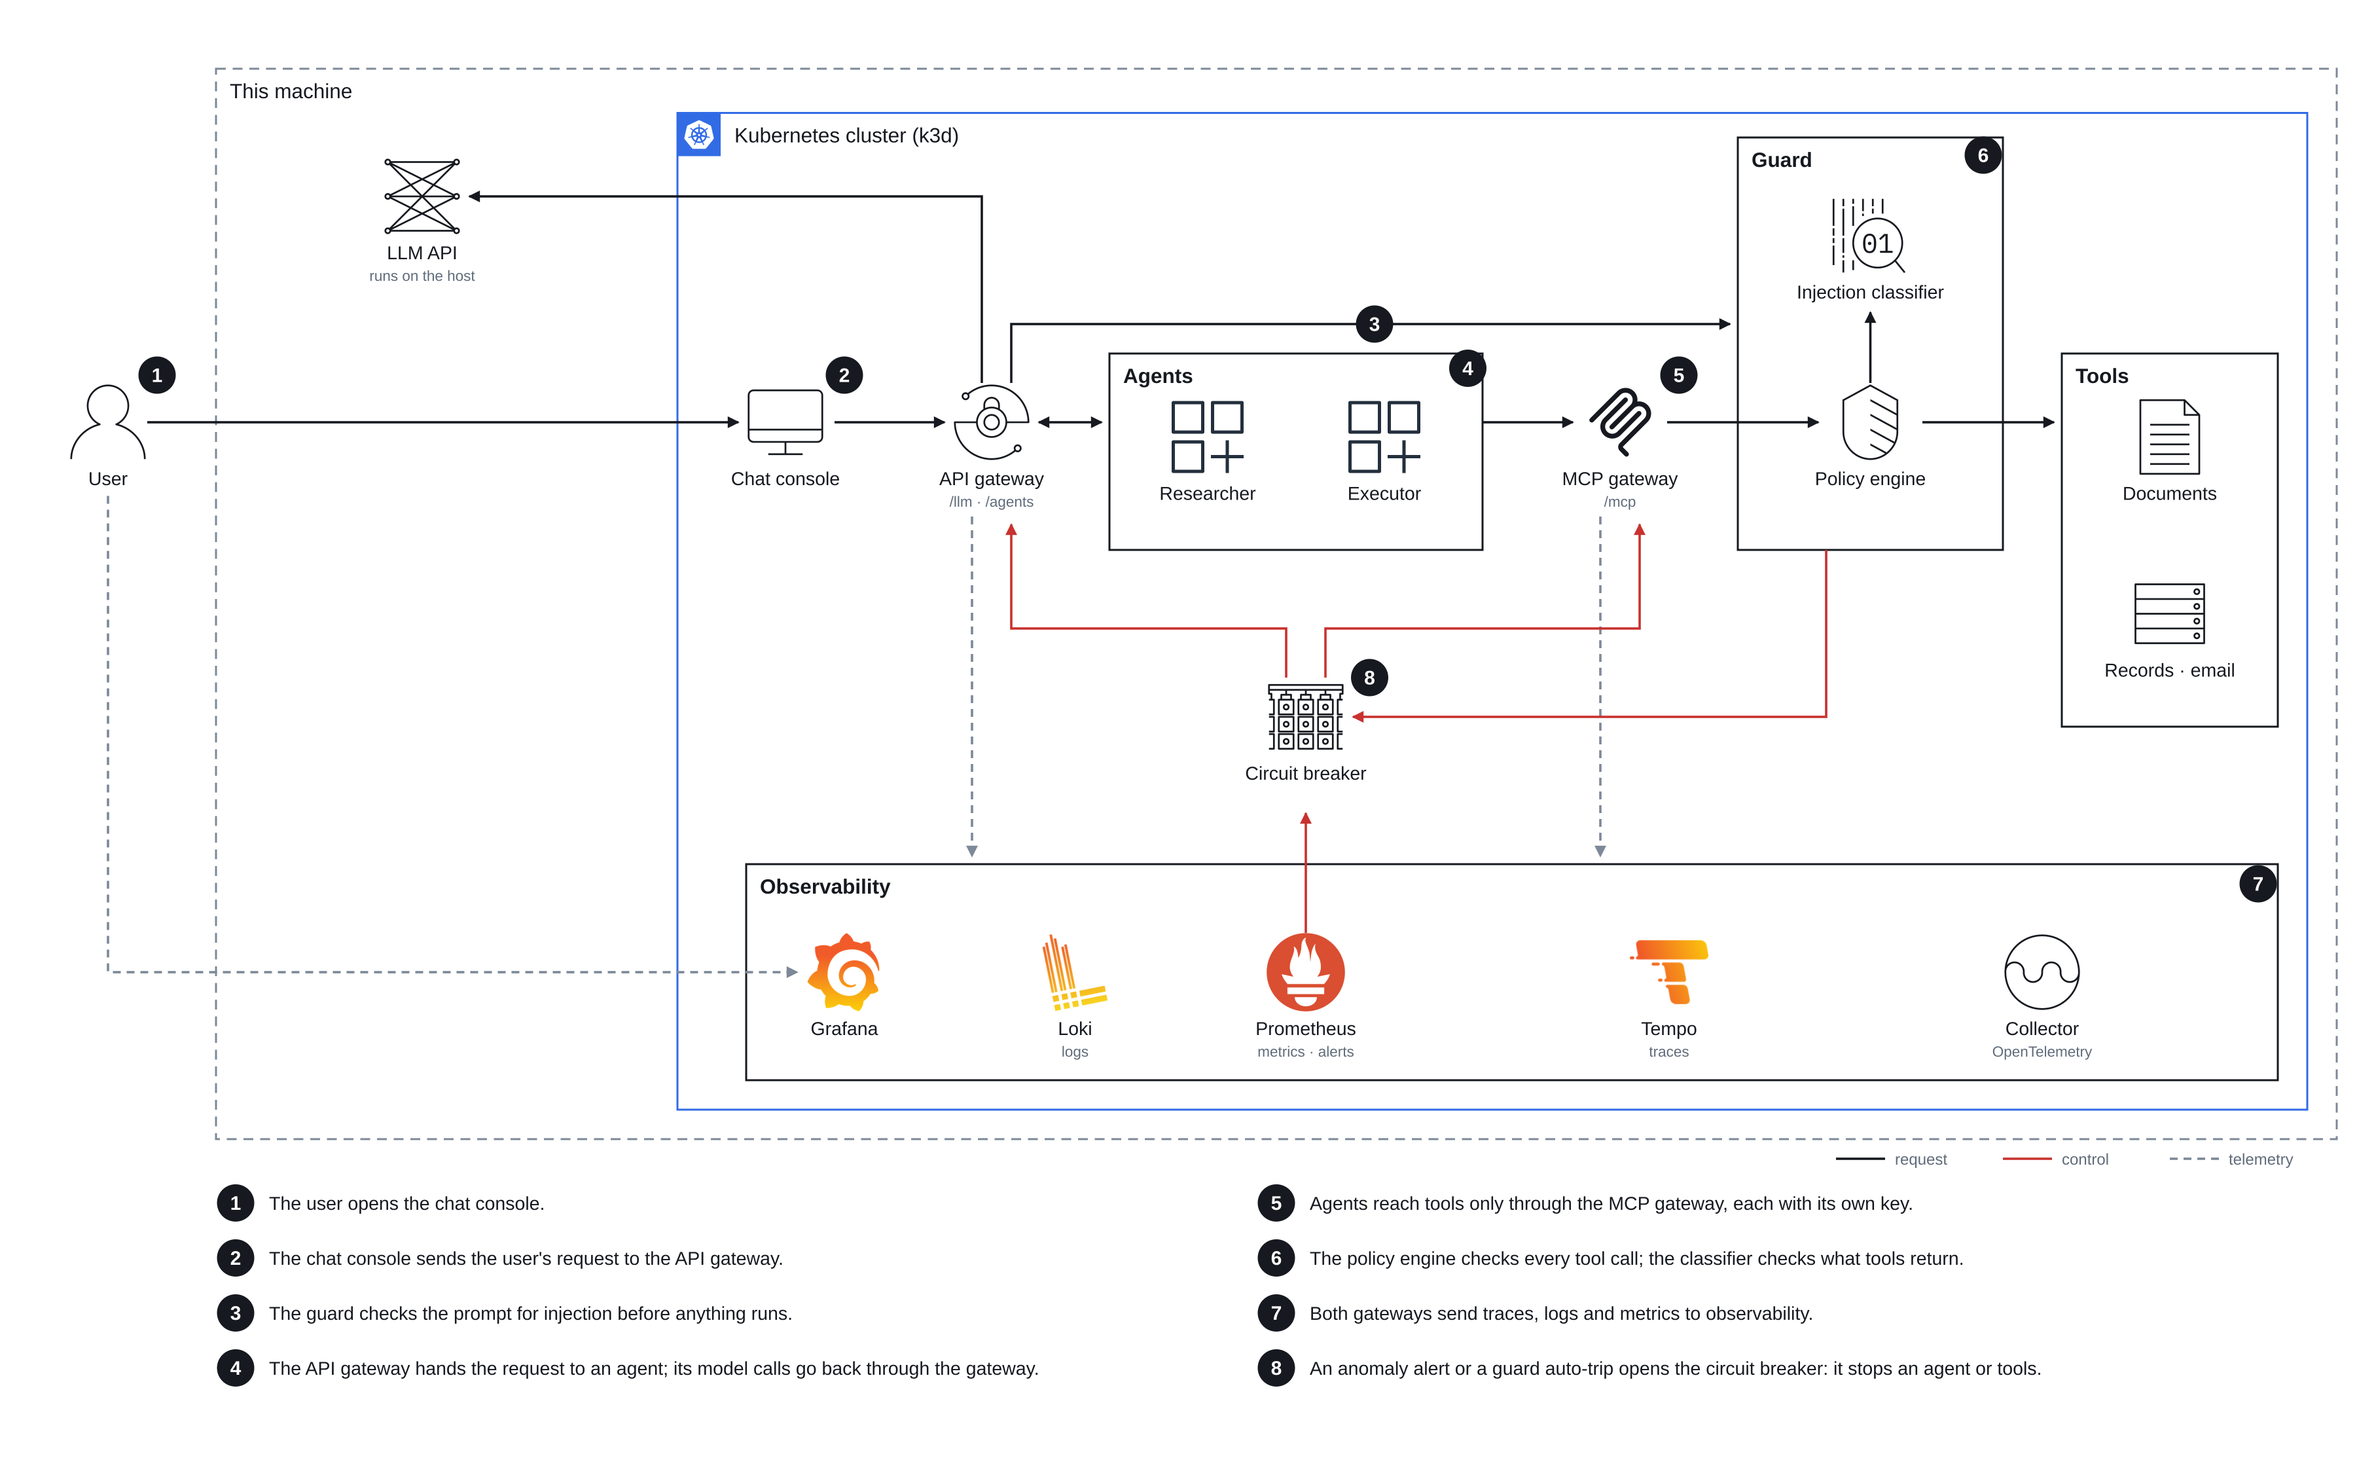
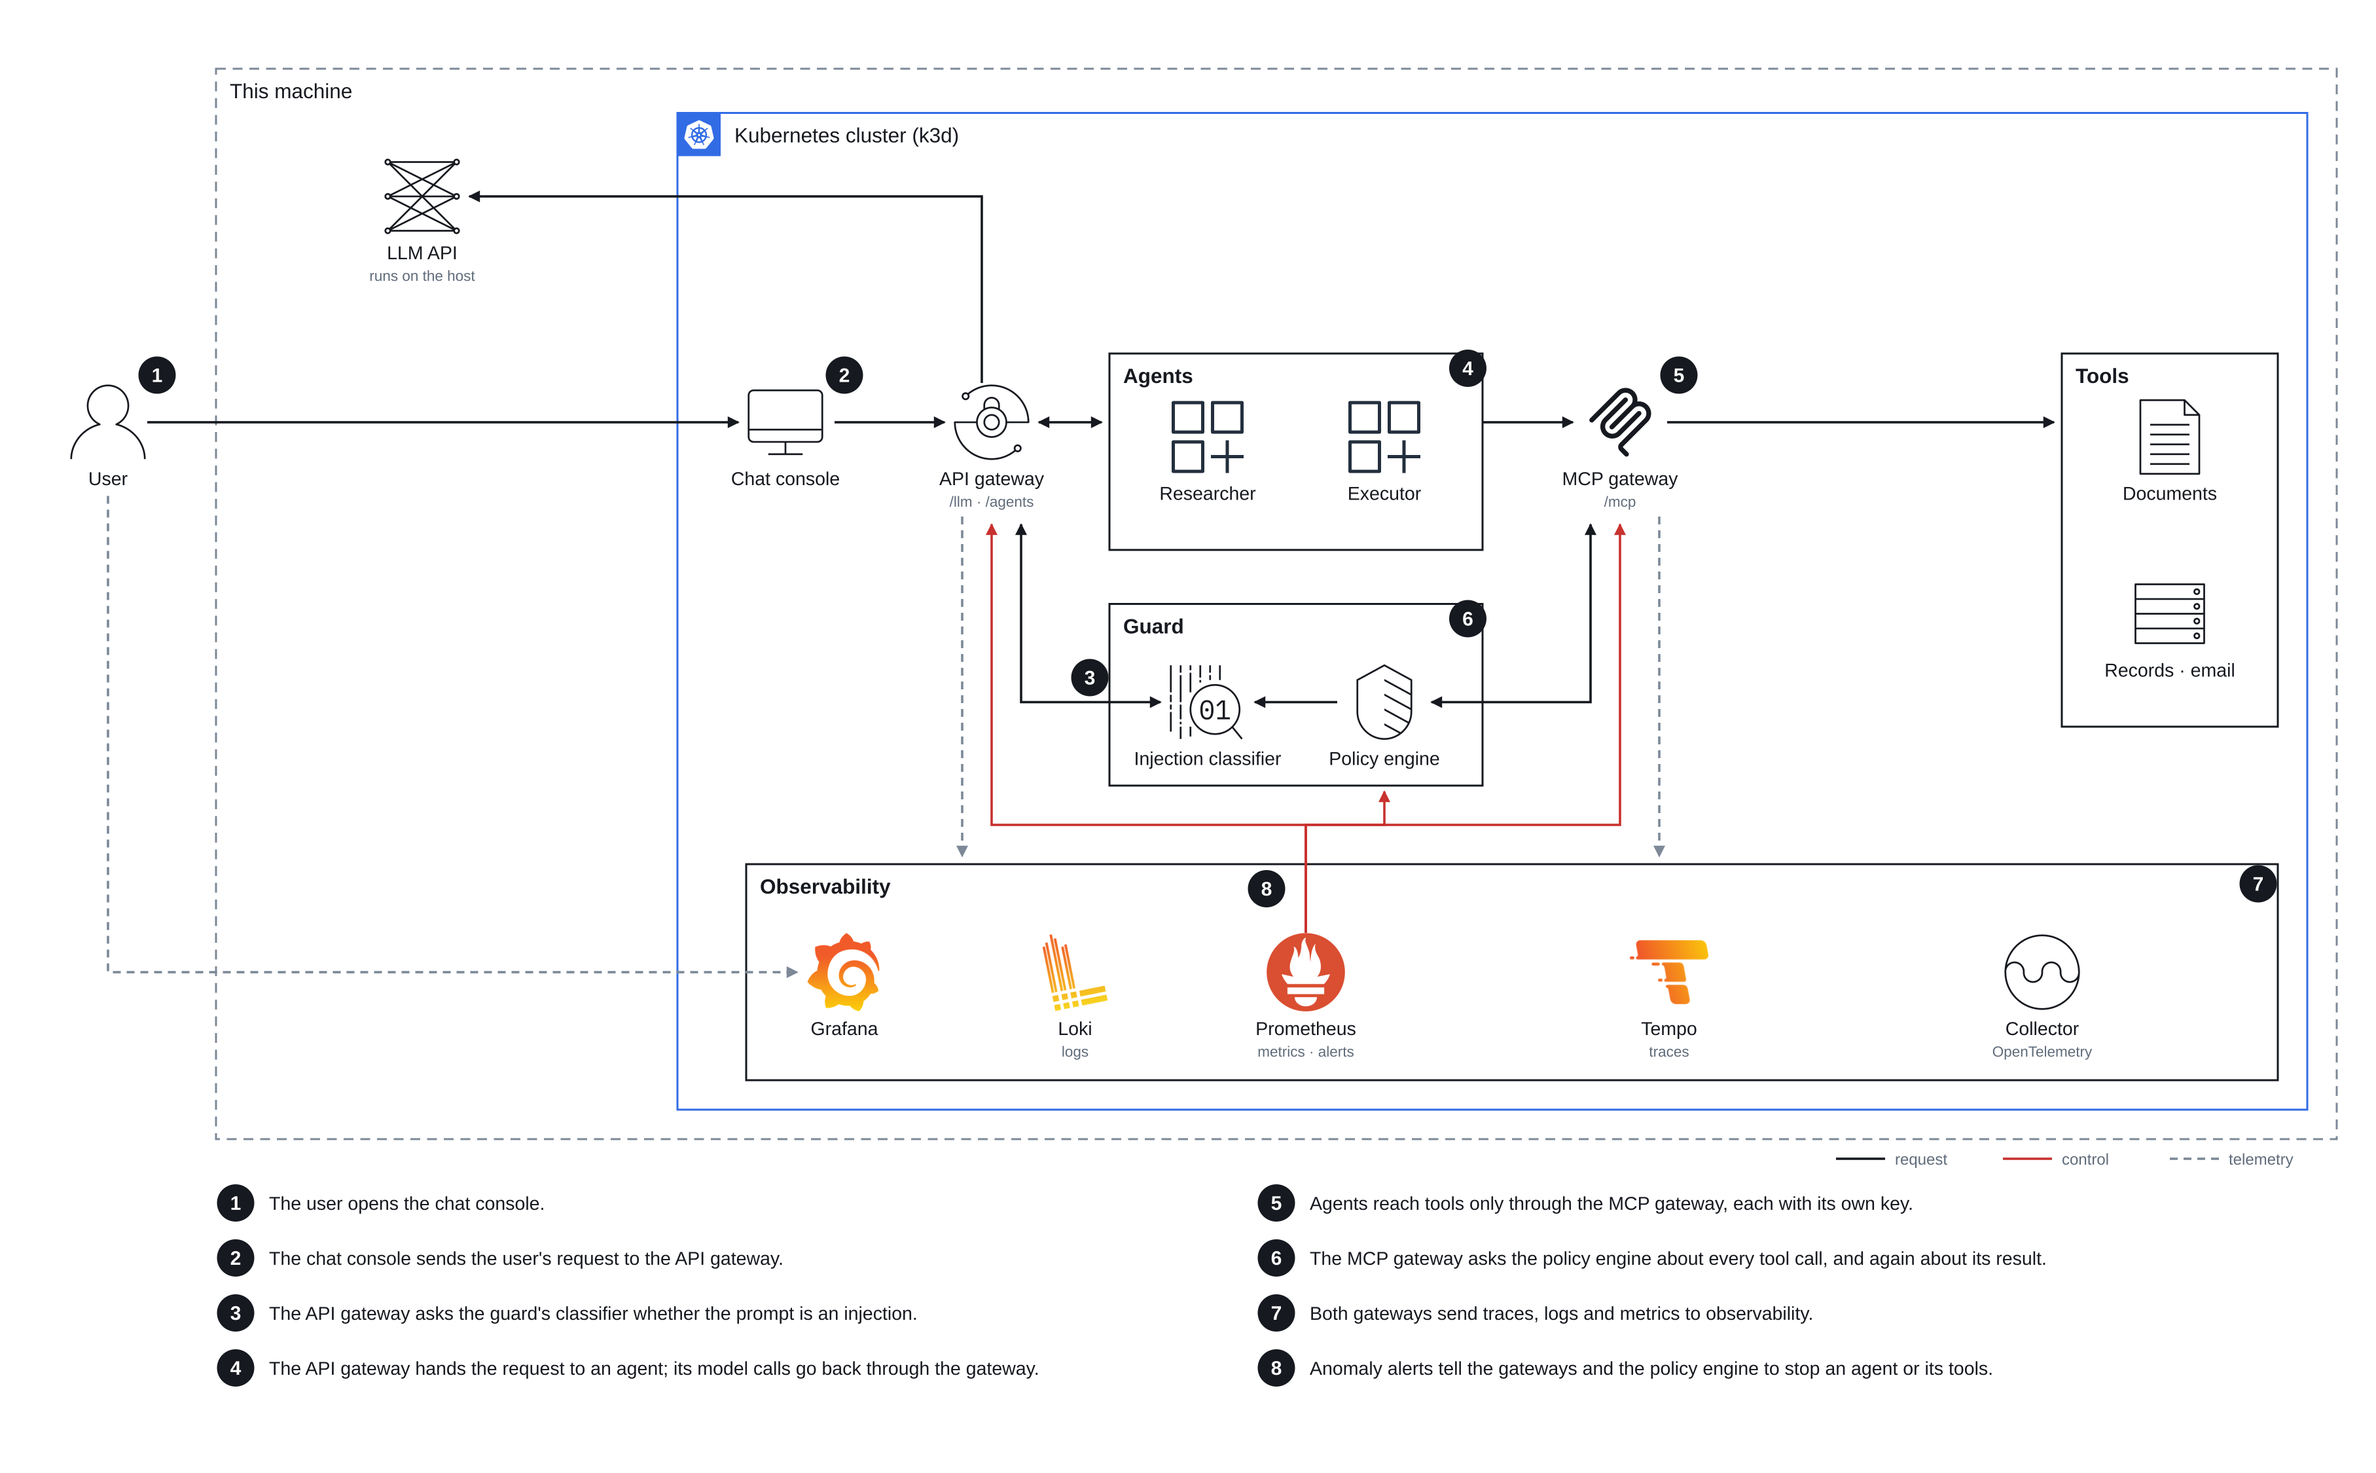
Diagram: no circuit breaker box, the guard as a call-out from both gateways (D-070)
Anomaly alerts go straight to the two gateways and the policy engine.
The gateways call out to the guard below the agents: the API gateway
asks the classifier about the prompt, the MCP gateway asks the policy
engine about each tool call and its result, then calls the tools
itself, as in the Interact Gateway integration. D-070 and the caption
note that APISIX's /mcp route still goes through the guard's proxy.

Claude-Session: https://claude.ai/code/session_01Jsn8uVNGPVQzviUb3isWPh

diff --git a/docs/diagram/architecture.py b/docs/diagram/architecture.py
@@ -7,8 +7,10 @@ component means choosing where it goes. The icons are in icons/ (see icons/READM
 products keep their own logos, everything else is an IBM Carbon pictogram, the MCP gateway the
 Model Context Protocol logo and the agents AWS's Generic Application icon.
 
-Black arrows are requests, red ones control (the circuit breaker), dashed ones telemetry and dotted
-ones deployment. The gateway is one deployment, drawn as the two gateways its routes form (D-068).
+Black arrows are requests, red ones control (anomaly alerts stopping an agent or its tools),
+dashed ones telemetry and dotted ones deployment. The gateways are drawn calling out to the guard
+(the policy engine and the classifier) and waiting for its answer, as the Interact Gateway
+integration does; in today's APISIX demo the guard sits inline on /mcp as an MCP proxy (D-070). The gateway is one deployment, drawn as the two gateways its routes form (D-068).
 
 TARGET=k3d (default) draws the laptop demo: k3d, the LLM on the host, no sign-in. TARGET=openshift
 draws the same demo on OpenShift (D-062): user authentication in front, the LLM in the cluster and
@@ -97,7 +99,7 @@ else:
     group(220, 70, 2380, 1160, "This machine", color=GREY, dash="10 7")
     group(690, 115, 2350, 1130, "Kubernetes cluster (k3d)", color="#326ce5", logo="kubernetes.svg")
 group(1130, 360, 1510, 560, "Agents", bold=True)
-group(1770, 140, 2040, 560, "Guard", bold=True)
+group(1130, 615, 1510, 800, "Guard", bold=True)
 group(2100, 360, 2320, 740, "Tools", bold=True)
 group(760, 880, 2320, 1100, "Observability", bold=True)
 
@@ -113,18 +115,19 @@ else:
     arrow((110, Y+75), (110, 990), (812, 990), kind="tel")      # user → Grafana
     arrow((1000, Y-40), (1000, 200), (478, 200))                # API gateway → LLM on the host
 arrow((850, Y), (962, Y))                                       # console → API gateway
-arrow((1030, Y-40), (1030, 330), (1762, 330))                   # prompt check → guard
 arrow((1058, Y), (1122, Y), both=True)                          # API gateway ⇄ agents
 arrow((1510, Y), (1602, Y))                                     # agents → MCP gateway
-arrow((1698, Y), (1852, Y))                                     # MCP gateway → policy engine
-arrow((1905, Y-40), (1905, 318))                                # policy engine → classifier
-arrow((1958, Y), (2092, Y))                                     # policy engine → tools
-arrow((990, Y+96), (990, 872), kind="tel")                      # API gateway → observability
-arrow((1630, Y+96), (1630, 872), kind="tel")                    # MCP gateway → observability
-arrow((1310, 690), (1310, 640), (1030, 640), (1030, Y+104), kind="ctl")   # breaker stops agents
-arrow((1350, 690), (1350, 640), (1670, 640), (1670, Y+104), kind="ctl")   # breaker stops tools
-arrow((1860, 560), (1860, 730), (1378, 730), kind="ctl")        # guard auto-trip
-arrow((1330, 950), (1330, 828), kind="ctl")                     # Prometheus alerts
+arrow((1698, Y), (2092, Y))                                     # MCP gateway → tools
+# The gateways call out to the guard and wait for its answer (the Interact Gateway model, D-070)
+arrow((1040, Y+104), (1040, 715), (1182, 715), both=True)       # API gateway ⇄ classifier: the prompt
+arrow((1620, Y+104), (1620, 715), (1458, 715), both=True)       # MCP gateway ⇄ policy engine: call and result
+arrow((1362, 715), (1278, 715))                                 # policy engine → classifier: the result
+arrow((980, Y+96), (980, 872), kind="tel")                      # API gateway → observability
+arrow((1690, Y+96), (1690, 872), kind="tel")                    # MCP gateway → observability
+# Prometheus's anomaly alerts, one trunk branching to both gateways and the policy engine
+arrow((1330, 950), (1330, 840), (1010, 840), (1010, Y+104), kind="ctl")
+arrow((1330, 950), (1330, 840), (1650, 840), (1650, Y+104), kind="ctl")
+arrow((1330, 950), (1330, 840), (1410, 840), (1410, 806), kind="ctl")
 
 # Icons
 icon("user.svg", 110, Y, "User")
@@ -139,11 +142,10 @@ icon("api-gateway.svg", 1010, Y, "API gateway", "/llm · /agents")
 icon("agent.svg", 1230, Y+15, "Researcher")
 icon("agent.svg", 1410, Y+15, "Executor")
 icon("mcp-gateway.svg", 1650, Y, "MCP gateway", "/mcp")
-icon("classifier.svg", 1905, 240, "Injection classifier")
-icon("policy-engine.svg", 1905, Y, "Policy engine")
+icon("classifier.svg", 1230, 715, "Injection classifier")
+icon("policy-engine.svg", 1410, 715, "Policy engine")
 icon("documents.svg", 2210, Y+15, "Documents")
 icon("records.svg", 2210, 625, "Records · email")
-icon("circuit-breaker.svg", 1330, 730, "Circuit breaker")
 icon("grafana.png", 860, 990, "Grafana")
 icon("loki.png", 1095, 990, "LokiStack" if OPENSHIFT else "Loki", "logs")
 icon("prometheus.png", 1330, 990, "Prometheus", "metrics · alerts")
@@ -151,19 +153,19 @@ icon("tempo.png", 1700, 990, "Tempo", "traces")
 icon("collector.svg", 2080, 990, "Collector", "OpenTelemetry")
 
 # Numbered steps, at the thing that does each one
-for n, (x, y) in enumerate([(482, Y-48) if OPENSHIFT else (160, Y-48), (860, Y-48), (1400, 330), (1495, 375),
-                            (1710, Y-48), (2020, 158), (2300, 900), (1395, 690)], start=1):
+for n, (x, y) in enumerate([(482, Y-48) if OPENSHIFT else (160, Y-48), (860, Y-48), (1110, 690), (1495, 375),
+                            (1710, Y-48), (1495, 630), (2300, 900), (1290, 905)], start=1):
     badge(x, y, n)
 
 steps = [
     "The user signs in through user authentication." if OPENSHIFT else "The user opens the chat console.",
     "The chat console sends the user's request to the API gateway.",
-    "The guard checks the prompt for injection before anything runs.",
+    "The API gateway asks the guard's classifier whether the prompt is an injection.",
     "The API gateway hands the request to an agent; its model calls go back through the gateway.",
     "Agents reach tools only through the MCP gateway, each with its own key.",
-    "The policy engine checks every tool call; the classifier checks what tools return.",
+    "The MCP gateway asks the policy engine about every tool call, and again about its result.",
     "Both gateways send traces, logs and metrics to observability.",
-    "An anomaly alert or a guard auto-trip opens the circuit breaker: it stops an agent or tools.",
+    "Anomaly alerts tell the gateways and the policy engine to stop an agent or its tools.",
 ]
 for i, s in enumerate(steps):
     x, y = (240 if i < 4 else 1300), 1225 + (i % 4) * 56

diff --git a/docs/DECISIONS.md b/docs/DECISIONS.md
@@ -840,12 +840,16 @@ At the operator's request (2026-10-27), after comparing the old Graphviz picture
 
 **Layout.** `docs/diagram/architecture.py` no longer uses the `diagrams` library and Graphviz's automatic layout. It writes an SVG with every icon, group and arrow at a fixed position, and `scripts/diagram.sh` turns it into the PNG with `rsvg-convert`. Graphviz kept moving boxes around and crossing lines whenever something changed; a fixed grid gives the clean picture, at the cost of choosing a position for anything new. It follows the AWS architecture-icon guidelines:
 
-- One main flow, left to right: user → (authentication) → chat console → API gateway → agents → MCP gateway → policy engine → tools. The LLM and the classifier sit above what calls them, and the circuit breaker and observability below.
+- One main flow, left to right: user → (authentication) → chat console → API gateway → agents → MCP gateway → tools. The LLM sits above the API gateway, the guard below the agents and observability at the bottom.
 - Square-cornered arrows with no labels and no crossings. Black is a request, red control, dashed telemetry, dotted deployment, with a key under the picture.
 - Numbered black badges (1–8) at the parts that act, explained in a legend under the picture, instead of arrow labels.
 - Few groups, outlined only: the cluster with a corner tab carrying its logo (OpenShift, or Kubernetes for k3d), the namespaces dashed, and plain boxes for Agents, Guard, Tools and Observability. The two gateways have no boxes of their own; their names say which is which (D-068).
 - Short names under the icons, with at most one grey detail line.
 
-**Icons.** The products keep their logos (OpenShift, Kubernetes, Argo CD, Grafana, Loki, Prometheus, Tempo). Everything else is from IBM's Carbon pictograms, one thin line style, except two: the MCP gateway is the Model Context Protocol logo from Carbon's icon set, and the agents are AWS's Generic Application icon. The circuit breaker is a pit-stop traffic light. The files are in `docs/diagram/icons/`, so rendering downloads nothing but two Debian packages; `icons/README.md` lists where each came from and its licence. Three whole sets were tried first (Carbon icons, Carbon pictograms, AWS resource icons); the pictograms were picked.
+**Icons.** The products keep their logos (OpenShift, Kubernetes, Argo CD, Grafana, Loki, Prometheus, Tempo). Everything else is from IBM's Carbon pictograms, one thin line style, except two: the MCP gateway is the Model Context Protocol logo from Carbon's icon set, and the agents are AWS's Generic Application icon. The files are in `docs/diagram/icons/`, so rendering downloads nothing but two Debian packages; `icons/README.md` lists where each came from and its licence. Three whole sets were tried first (Carbon icons, Carbon pictograms, AWS resource icons); the pictograms were picked.
 
 **Wording.** The OpenShift router is gone from the picture, and OpenShift login is **user authentication**. The person is the **user**, not "you" or the analyst. The k3d variant has no authentication, Argo CD or deployment arrow, and its LLM sits outside the cluster, on the host.
+
+**The guard is drawn as a call-out** (2026-10-27). Each gateway has a two-way line down to the guard and waits for its answer: the API gateway asks the classifier about the prompt, the MCP gateway asks the policy engine about each tool call and again about its result, and then calls the tools itself. That is how the Interact Gateway integration works (its policies call the guard before and after MCPInvoke, D-067), and it is the model the demo is presented with. Today's APISIX wiring differs on `/mcp`: the route's upstream is the guard, which checks the call, forwards it to the MCP server and scans the result, so the tools are reached through the guard rather than beside it (flow F3 in ARCHITECTURE.md). The diagram doesn't show that difference.
+
+**No circuit breaker box** (2026-10-27): Prometheus's anomaly alerts go straight to the two gateways and the policy engine, one red trunk with three branches, since those are where an agent or its tools are stopped. The kill-switch service still does the work (the console still says circuit breaker, D-069); the picture leaves it out, and the guard's auto-trip line with it.

diff --git a/docs/ARCHITECTURE.md b/docs/ARCHITECTURE.md
@@ -4,7 +4,7 @@ How the demo is built: the components, the paths a request takes, how identity a
 
 ![The demo on k3d](architecture.png)
 
-*The k3d target. The OpenShift variant is [architecture-openshift.png](architecture-openshift.png). Both are generated by `make diagram` from `docs/diagram/architecture.py` (D-062), drawn on a fixed grid with numbered steps (D-070). The **API gateway** and the **MCP gateway** are one APISIX: its `/llm` and `/agents` routes on one side, its `/mcp` routes on the other, both checked by the same guard (D-068).*
+*The k3d target. The OpenShift variant is [architecture-openshift.png](architecture-openshift.png). Both are generated by `make diagram` from `docs/diagram/architecture.py` (D-062), drawn on a fixed grid with numbered steps (D-070). The **API gateway** and the **MCP gateway** are one APISIX: its `/llm` and `/agents` routes on one side, its `/mcp` routes on the other, both checked by the same guard (D-068). The diagram draws the guard as a call-out from the gateways, as in the Interact Gateway integration; on APISIX, `/mcp` actually goes *through* the guard's MCP proxy to the tools (F3 below, D-070).*
 
 ## The idea in one paragraph
 

diff --git a/docs/diagram/icons/README.md b/docs/diagram/icons/README.md
@@ -13,7 +13,6 @@ The icons `architecture.py` draws, kept here so `make diagram` downloads nothing
 | `policy-engine.svg` | IBM Carbon pictograms 12.87.0 | `security--shield` | Apache-2.0 |
 | `documents.svg` | IBM Carbon pictograms 12.87.0 | `documentation` | Apache-2.0 |
 | `records.svg` | IBM Carbon pictograms 12.87.0 | `database` | Apache-2.0 |
-| `circuit-breaker.svg` | IBM Carbon pictograms 12.87.0 | `f1--pit-stop-traffic-light` | Apache-2.0 |
 | `collector.svg` | IBM Carbon pictograms 12.87.0 | `streaming-data` | Apache-2.0 |
 | `mcp-gateway.svg` | IBM Carbon icons 11.91.0 | `logo--model-context-protocol` (32 px) | Apache-2.0 |
 | `agent.svg` | AWS Architecture Icons, via the `aws-icons` npm package 3.3.0 | `Res_Generic-Application_48_Light` | AWS icon terms: free to use in architecture diagrams |
